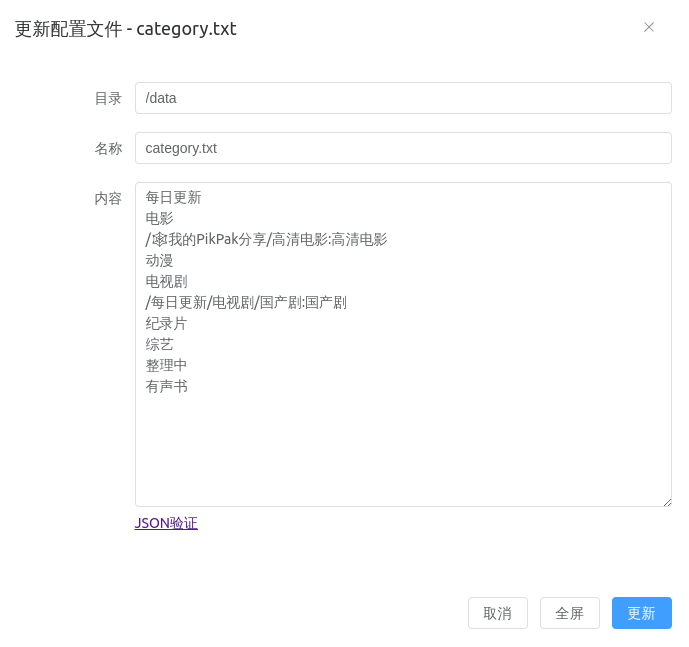
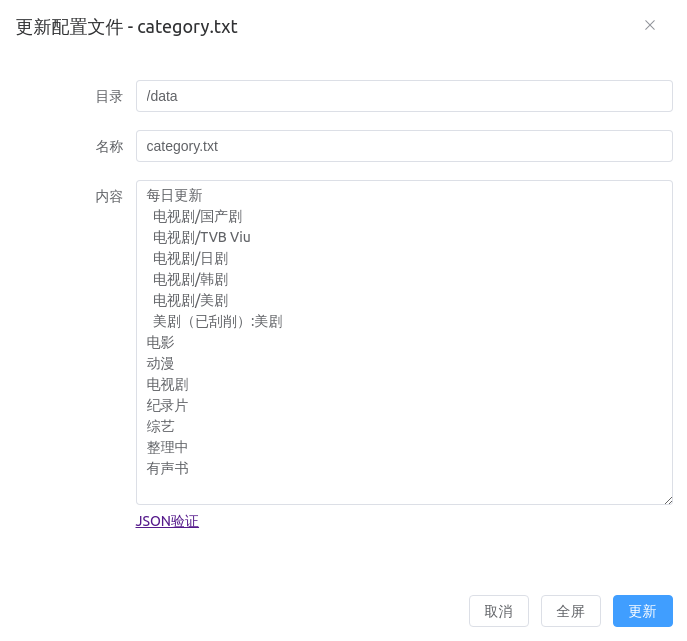
fix filter

diff --git a/src/main/java/cn/har01d/alist_tvbox/service/TvBoxService.java b/src/main/java/cn/har01d/alist_tvbox/service/TvBoxService.java
@@ -303,7 +303,7 @@ public class TvBoxService {
         if (filters.size() <= 1) {
             result.getFilters().put(typeId, List.of(new Filter("sort", "排序", filters2), new Filter("score", "评分", filters3)));
         } else {
-            result.getFilters().put(typeId, List.of(new Filter("dir", "子目录", filters), new Filter("sort", "排序", filters2), new Filter("score", "评分", filters3)));
+            result.getFilters().put(typeId, List.of(new Filter("dir", "目录", filters), new Filter("sort", "排序", filters2), new Filter("score", "评分", filters3)));
         }
     }
 
@@ -312,7 +312,7 @@ public class TvBoxService {
         if (parts.length == 2) {
             filters.add(new FilterValue(parts[1].trim(), parts[0].trim()));
         } else {
-            filters.add(new FilterValue(path.trim(), path.trim()));
+            filters.add(new FilterValue(getNameFromPath(path.trim()), path.trim()));
         }
     }
 
@@ -900,9 +900,7 @@ public class TvBoxService {
                 movie = doubanService.getByName(movieDetail.getVod_name());
             }
 
-            if (movie != null) {
-                setDoubanInfo(movieDetail, movie, details);
-            }
+            setDoubanInfo(movieDetail, movie, details);
         } catch (Exception e) {
             log.warn("", e);
         }
@@ -1009,7 +1007,7 @@ public class TvBoxService {
         return path;
     }
 
-    private String getNameFromPath(String path) {
+    private static String getNameFromPath(String path) {
         String[] parts = path.split("#");
         if (parts.length > 1) {
             return parts[1];

diff --git a/doc/README_zh.md b/doc/README_zh.md
@@ -164,11 +164,18 @@ tvbox/my.json不能在TvBox直接使用，请使用订阅地址！
 
 可以自定义类别。在文件管理界面，添加一个文件/data/category.txt，内容是要显示的小雅目录，不能包含别名，没有数据。
 
-可以自定义名称，冒号后面是自定义的名字。
+可以自定义名称，冒号后面是自定义的名字。 在分类下面可以加子目录作为筛选条件，用两个空格开始。
 
-/每日更新/电视剧/国产剧:国产剧
+<pre>
+每日更新
+  电视剧/国产剧
+  电视剧/美剧
+  美剧（已刮削）:美剧
+</pre>
 
 ![类别](https://raw.githubusercontent.com/power721/alist-tvbox/master/doc/atv_category.png)
+
+![filter](https://raw.githubusercontent.com/power721/alist-tvbox/master/doc/atv_filter.jpg)
 
 ### 配置
 ![配置页面](https://raw.githubusercontent.com/power721/alist-tvbox/master/doc/atv_config.png)
